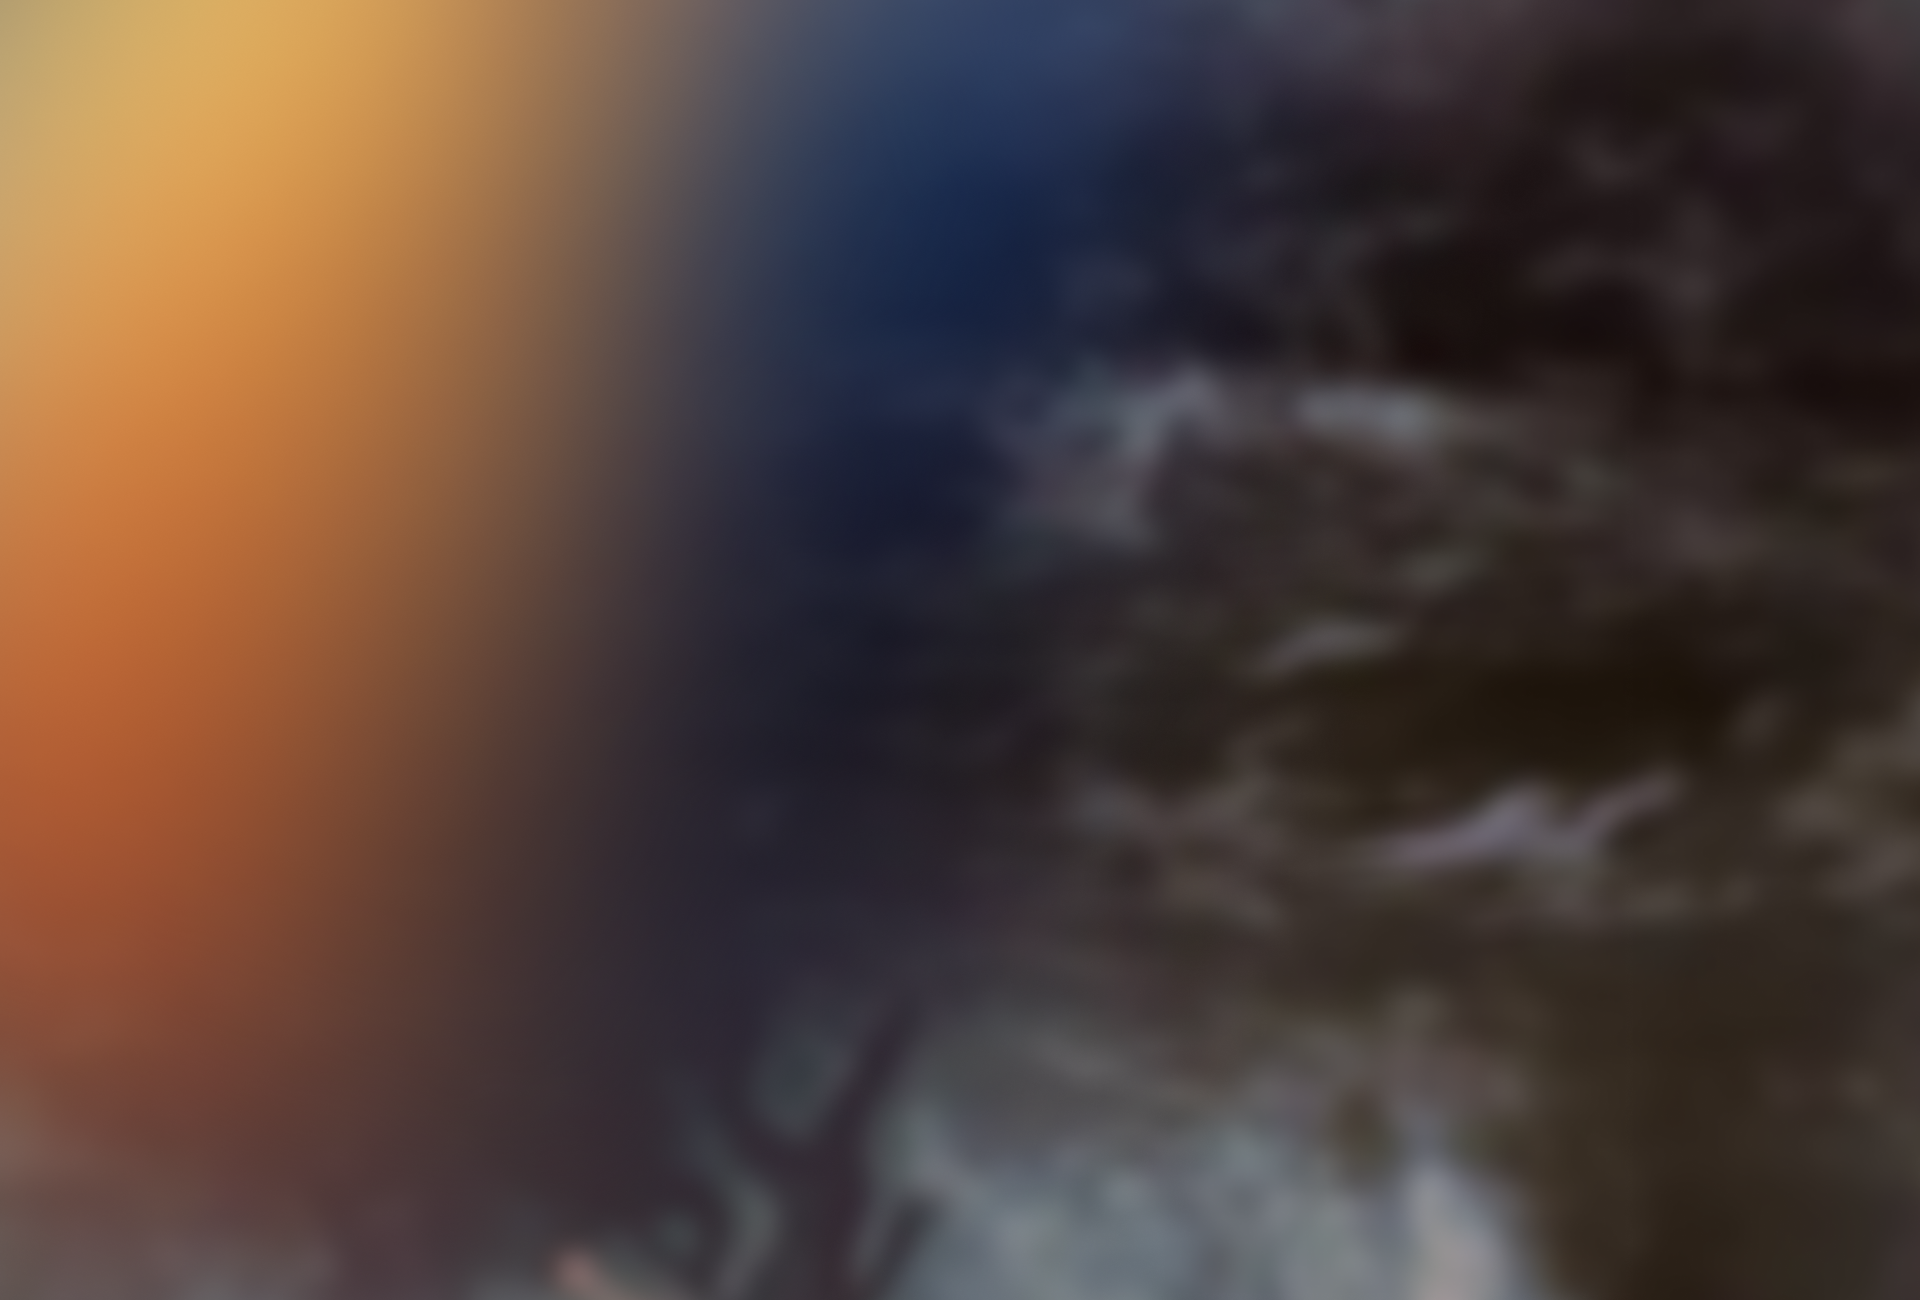
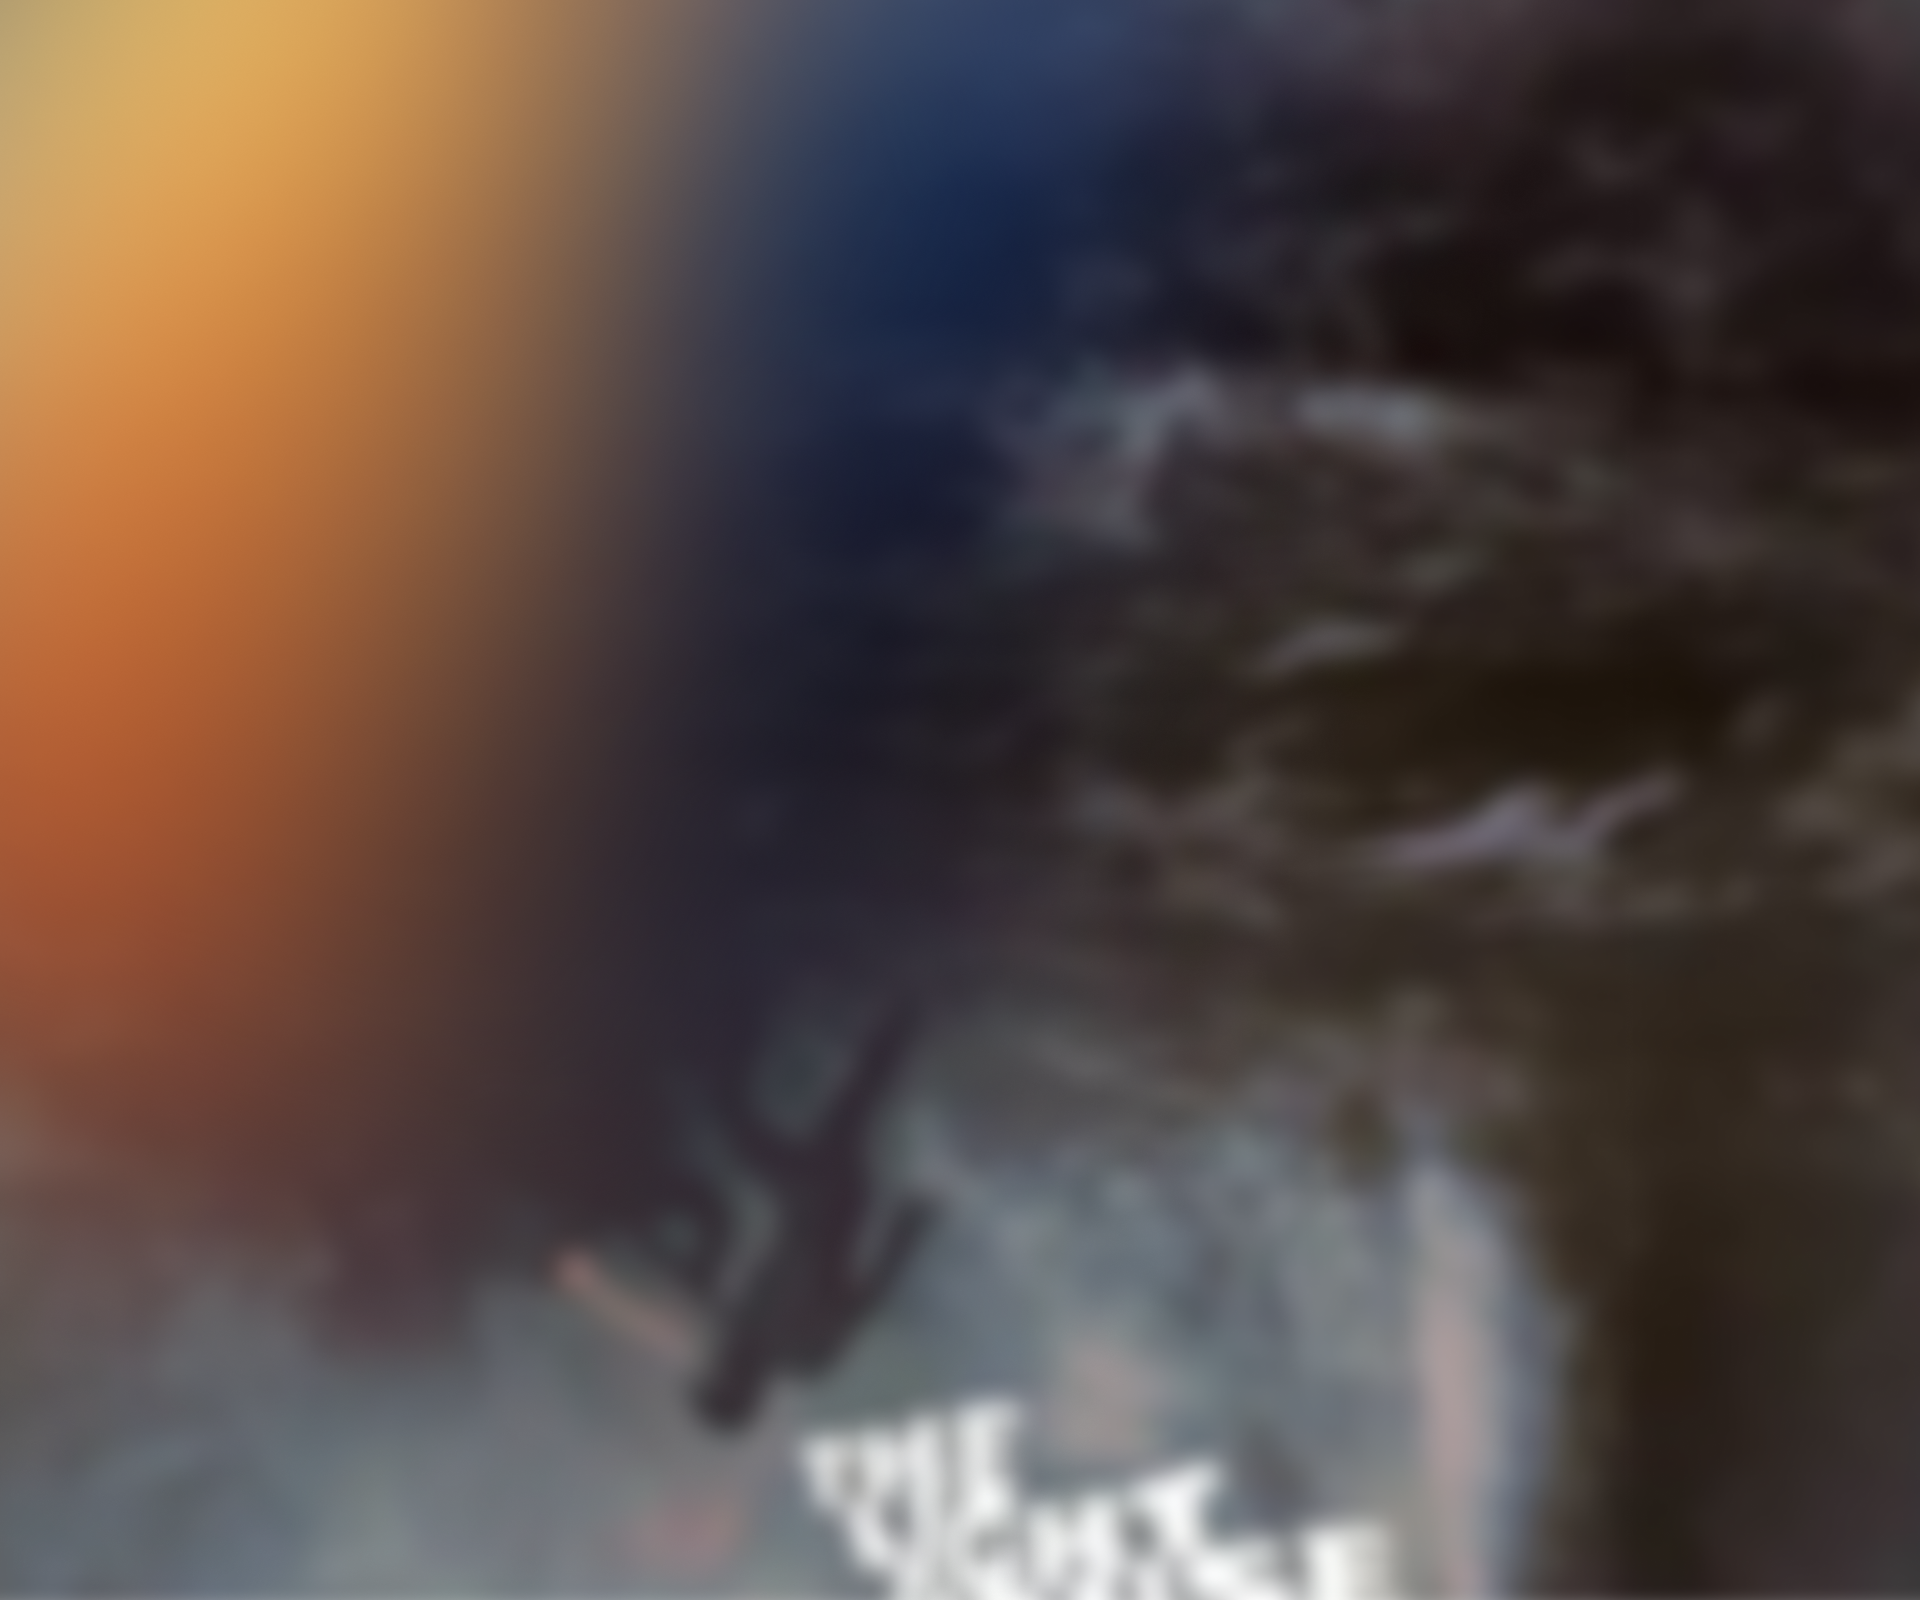
Feat: Update background_image - resizeing

diff --git a/final-pjt-front/src/components/HelloWorld.vue b/final-pjt-front/src/components/HelloWorld.vue
@@ -27,6 +27,58 @@
       <li><a href="https://vue-loader.vuejs.org" target="_blank" rel="noopener">vue-loader</a></li>
       <li><a href="https://github.com/vuejs/awesome-vue" target="_blank" rel="noopener">awesome-vue</a></li>
     </ul>
+    <p>
+      For a guide and recipes on how to configure / customize this project,<br>
+      check out the
+      <a href="https://cli.vuejs.org" target="_blank" rel="noopener">vue-cli documentation</a>.
+    </p>
+    <h3>Installed CLI Plugins</h3>
+    <ul>
+      <li><a href="https://github.com/vuejs/vue-cli/tree/dev/packages/%40vue/cli-plugin-babel" target="_blank" rel="noopener">babel</a></li>
+      <li><a href="https://github.com/vuejs/vue-cli/tree/dev/packages/%40vue/cli-plugin-eslint" target="_blank" rel="noopener">eslint</a></li>
+    </ul>
+    <h3>Essential Links</h3>
+    <ul>
+      <li><a href="https://vuejs.org" target="_blank" rel="noopener">Core Docs</a></li>
+      <li><a href="https://forum.vuejs.org" target="_blank" rel="noopener">Forum</a></li>
+      <li><a href="https://chat.vuejs.org" target="_blank" rel="noopener">Community Chat</a></li>
+      <li><a href="https://twitter.com/vuejs" target="_blank" rel="noopener">Twitter</a></li>
+      <li><a href="https://news.vuejs.org" target="_blank" rel="noopener">News</a></li>
+    </ul>
+    <h3>Ecosystem</h3>
+    <ul>
+      <li><a href="https://router.vuejs.org" target="_blank" rel="noopener">vue-router</a></li>
+      <li><a href="https://vuex.vuejs.org" target="_blank" rel="noopener">vuex</a></li>
+      <li><a href="https://github.com/vuejs/vue-devtools#vue-devtools" target="_blank" rel="noopener">vue-devtools</a></li>
+      <li><a href="https://vue-loader.vuejs.org" target="_blank" rel="noopener">vue-loader</a></li>
+      <li><a href="https://github.com/vuejs/awesome-vue" target="_blank" rel="noopener">awesome-vue</a></li>
+    </ul>
+    <p>
+      For a guide and recipes on how to configure / customize this project,<br>
+      check out the
+      <a href="https://cli.vuejs.org" target="_blank" rel="noopener">vue-cli documentation</a>.
+    </p>
+    <h3>Installed CLI Plugins</h3>
+    <ul>
+      <li><a href="https://github.com/vuejs/vue-cli/tree/dev/packages/%40vue/cli-plugin-babel" target="_blank" rel="noopener">babel</a></li>
+      <li><a href="https://github.com/vuejs/vue-cli/tree/dev/packages/%40vue/cli-plugin-eslint" target="_blank" rel="noopener">eslint</a></li>
+    </ul>
+    <h3>Essential Links</h3>
+    <ul>
+      <li><a href="https://vuejs.org" target="_blank" rel="noopener">Core Docs</a></li>
+      <li><a href="https://forum.vuejs.org" target="_blank" rel="noopener">Forum</a></li>
+      <li><a href="https://chat.vuejs.org" target="_blank" rel="noopener">Community Chat</a></li>
+      <li><a href="https://twitter.com/vuejs" target="_blank" rel="noopener">Twitter</a></li>
+      <li><a href="https://news.vuejs.org" target="_blank" rel="noopener">News</a></li>
+    </ul>
+    <h3>Ecosystem</h3>
+    <ul>
+      <li><a href="https://router.vuejs.org" target="_blank" rel="noopener">vue-router</a></li>
+      <li><a href="https://vuex.vuejs.org" target="_blank" rel="noopener">vuex</a></li>
+      <li><a href="https://github.com/vuejs/vue-devtools#vue-devtools" target="_blank" rel="noopener">vue-devtools</a></li>
+      <li><a href="https://vue-loader.vuejs.org" target="_blank" rel="noopener">vue-loader</a></li>
+      <li><a href="https://github.com/vuejs/awesome-vue" target="_blank" rel="noopener">awesome-vue</a></li>
+    </ul>
   </div>
 </template>
 

diff --git a/final-pjt-front/src/App.vue b/final-pjt-front/src/App.vue
@@ -1,8 +1,5 @@
 <template>
   <div id="app">
-    <p class="hero">
-      <img src="@/assets/background_img/hero.png">
-    </p>
     <nav>
       <img src="@/assets/logo.png" class="logo" @click="toHome">
       <div class="menu">
@@ -62,24 +59,9 @@ export default {
   text-align: center;
   color: white;
   background-image: url('@/assets/background_img/home_bg.png');
-  height: 100vh;
+  height: 100%;
   width: 100vw;
   position: relative;
-}
-
-.hero {
-  position: absolute; top: 0; left: 0;
-  animation: shake 2.5s;
-  animation-iteration-count: infinite;
-  z-index: 0;
-}
-
-@keyframes shake {
-  0% { transform: translate(0px, 10px) rotate(0deg); }
-  
-  50% { transform: translate(0px, 0px) rotate(0deg); }
-  
-  100% { transform: translate(0px, 10px) rotate(0deg); }
 }
 
 body {

diff --git a/final-pjt-front/src/views/HomeView.vue b/final-pjt-front/src/views/HomeView.vue
@@ -1,5 +1,8 @@
 <template>
   <div class="home">
+    <p class="hero">
+      <img src="@/assets/background_img/hero.png">
+    </p>
     <!-- <img alt="Vue logo" src="../assets/logo.png"> -->
     <HelloWorld msg="모든 인류 구성원의 천부의"/>
   </div>
@@ -30,3 +33,23 @@ export default {
   }
 }
 </script>
+
+<style>
+.home {
+}
+
+.hero {
+  position: absolute; top: 0; left: 0;
+  animation: shake 2.5s;
+  animation-iteration-count: infinite;
+  z-index: 0;
+}
+
+@keyframes shake {
+  0% { transform: translate(0px, 10px) rotate(0deg); }
+  
+  50% { transform: translate(0px, 0px) rotate(0deg); }
+  
+  100% { transform: translate(0px, 10px) rotate(0deg); }
+}
+</style>
